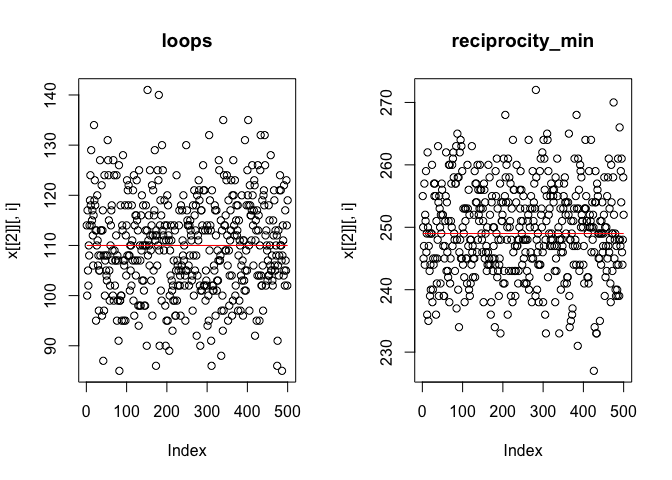
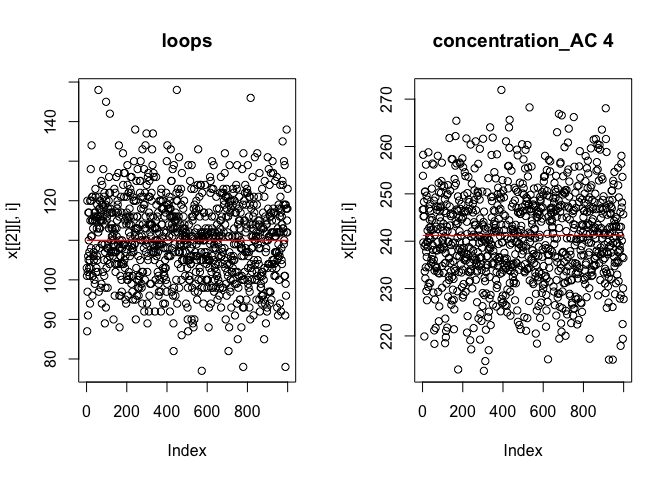
update exampels and readme

diff --git a/README.md b/README.md
@@ -34,11 +34,12 @@ on [SocArXiv](https://osf.io/preprints/socarxiv/8q2xu/)
 
 ## Note from the developers
 
-This is version 1.0.0 of MoNAn. This update includes many changes,
-including some that mean old code written for older versions will not
-work anymore!
+This is version 1.1.0 of MoNAn (Sep 2024). The update to version 1.0.0
+(March 2024) included many changes, including some that mean code
+written for older versions will not work anymore!
 
-Code use has been simplified; the most important changes are:
+Code use for version 1.0.0 has been simplified; the most important
+changes are:
 
 - the cache is now hidden from the user and does not need to be create
   or specified in functions anymore
@@ -52,13 +53,13 @@ Code use has been simplified; the most important changes are:
 - new way to generate the process state using monanDataCreate
 
 As of 30 Aug 2023, we have a CRAN release of the package. Nevertheless,
-the package and the documentation might still have bugs or errors, or
-you might not be able to do what you want. In that case, or if you are
-unsure please write the package maintainer under his institutional email
-address.
+we cannot guarantee that the package and the documentation is free of
+bugs or errors; further, you might not be able to do what you want. In
+that case, or if you are unsure please write the package maintainer
+under his institutional email address.
 
-We are currently (May 2024) on version 1.0.1 on github. Version 1.0.0
-was released to CRAN in Apr 2024.
+We are currently (Sep 2024) on version 1.1.0 on github. Version 1.1.0
+will be released to CRAN in Sep 2024.
 
 # Installation
 
@@ -203,7 +204,8 @@ name and any additional parameters it needs.
 # create an effects object
 myEffects <- createEffects(myState)
 myEffects <- addEffect(myEffects, loops)
-myEffects <- addEffect(myEffects, reciprocity_min)
+myEffects <- addEffect(myEffects, concentration_AC, alpha = 4)
+myEffects <- addEffect(myEffects, reciprocity_AC, alpha = 4)
 myEffects <- addEffect(myEffects, dyadic_covariate, attribute.index = "sameRegion")
 myEffects <- addEffect(myEffects, alter_covariate, attribute.index = "size")
 myEffects <- addEffect(myEffects, resource_covar_to_node_covar,
@@ -216,7 +218,8 @@ myEffects <- addEffect(myEffects, loops_resource_covar, resource.attribute.index
 # attribute.index & resource.attribute.index:
 myEffects <- createEffects(myState) |>
   addEffect(loops) |>
-  addEffect(reciprocity_min) |>
+  addEffect(concentration_AC, alpha = 4) |>
+  addEffect(reciprocity_AC, alpha = 4) |>
   addEffect(dyadic_covariate, node.attribute = "sameRegion") |>
   addEffect(alter_covariate, node.attribute = "size") |>
   addEffect(resource_covar_to_node_covar,
@@ -229,7 +232,8 @@ myEffects
 #> Effects
 #>  effect name                  cov. organisations cov. people  parameter 
 #>  loops                                -               -           -     
-#>  reciprocity_min                      -               -           -     
+#>  concentration_AC                     -               -           4     
+#>  reciprocity_AC                       -               -           4     
 #>  dyadic_covariate                 sameRegion          -           -     
 #>  alter_covariate                     size             -           -     
 #>  resource_covar_to_node_covar       region           sex          -     
@@ -325,7 +329,7 @@ estimates), another run is necessary.
 
 ``` r
 max(abs(myResDN$convergenceStatistics))
-#> [1] 0.1139582
+#> [1] 0.06074141
 ```
 
 If convergence is too high, update algorithm, re-run estimation with
@@ -352,7 +356,7 @@ myResDN <- monan07(
 ``` r
 # check convergence
 max(abs(myResDN$convergenceStatistics))
-#> [1] 0.0956881
+#> [1] 0.06074141
 ```
 
 In case convergence is still poor, updating the algorithm might be
@@ -365,19 +369,21 @@ convergence ratio. All values in the final column should be below 0.1
 myResDN
 #> Results
 #>                                   Effects   Estimates StandardErrors
-#> 1                                   loops  2.59354872      0.1827159
-#> 2                         reciprocity_min  0.82442789      0.1830364
-#> 3             dyadic_covariate sameRegion  1.68684201      0.1107805
-#> 4                    alter_covariate size  0.03634042      0.0234508
-#> 5 resource_covar_to_node_covar region sex -0.66139043      0.1634842
-#> 6                loops_resource_covar sex -0.36497904      0.2028804
-#>    Convergence
-#> 1  0.001441213
-#> 2  0.067114163
-#> 3  0.001477124
-#> 4 -0.086525984
-#> 5 -0.113958248
-#> 6  0.017199722
+#> 1                                   loops  2.93847918     0.16752184
+#> 2                      concentration_AC 4  1.39905831     0.20998661
+#> 3                        reciprocity_AC 4  0.99264953     0.17453719
+#> 4             dyadic_covariate sameRegion  0.53396969     0.10329601
+#> 5                    alter_covariate size  0.01579074     0.01849084
+#> 6 resource_covar_to_node_covar region sex -0.63996642     0.15384288
+#> 7                loops_resource_covar sex -0.35367248     0.21448765
+#>   Convergence
+#> 1  0.02771634
+#> 2 -0.04310385
+#> 3 -0.02941513
+#> 4 -0.02808840
+#> 5  0.01195872
+#> 6 -0.06074141
+#> 7  0.04756056
 ```
 
 ## Diagnostics of the estimated model
@@ -391,7 +397,7 @@ problematic and indicate that a higher thinning is needed.
 
 ``` r
 autoCorrelationTest(myResDN)
-#> [1] 0.09451788
+#> [1] 0.09948763
 ```
 
 The output of extractTraces indicates the correlation of statistics
@@ -406,7 +412,7 @@ par(mfrow = c(1,2))
 plot(traces)
 ```
 
-<img src="man/figures/README-unnamed-chunk-18-1.png" width="100%" /><img src="man/figures/README-unnamed-chunk-18-2.png" width="100%" /><img src="man/figures/README-unnamed-chunk-18-3.png" width="100%" />
+<img src="man/figures/README-unnamed-chunk-18-1.png" width="100%" /><img src="man/figures/README-unnamed-chunk-18-2.png" width="100%" /><img src="man/figures/README-unnamed-chunk-18-3.png" width="100%" /><img src="man/figures/README-unnamed-chunk-18-4.png" width="100%" />
 
 ## Score-tests to check model specification
 
@@ -423,7 +429,7 @@ test_ME.2 <- scoreTest(myResDN, myEffects2)
 test_ME.2
 #> Results
 #>            Effects pValuesParametric pValuesNonParametric
-#> 1 transitivity_min      5.186418e-09                    0
+#> 1 transitivity_min         0.1865437                0.898
 #> 
 #>  Parametric p-values: small = more significant 
 #>  Non-parametric p-values: further away from 0.5 = more significant
@@ -463,7 +469,7 @@ parameters.
 mySimDN <- monanSimulate(
   myState,
   myEffects,
-  parameters = c(2, 1, 1.5, 0.1, -1, -0.5),
+  parameters = c(2, 1, 1.5, 0.5, 0.1, -1, -0.5),
   allowLoops = TRUE,
   burnin = 45000,
   thinning = 15000,
